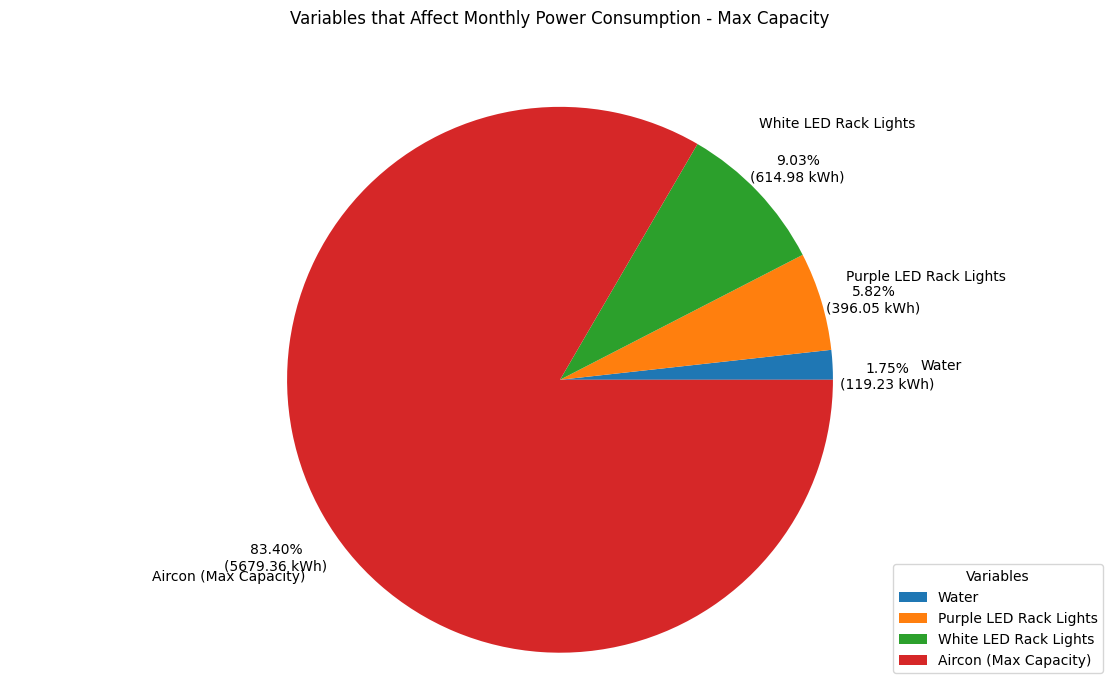
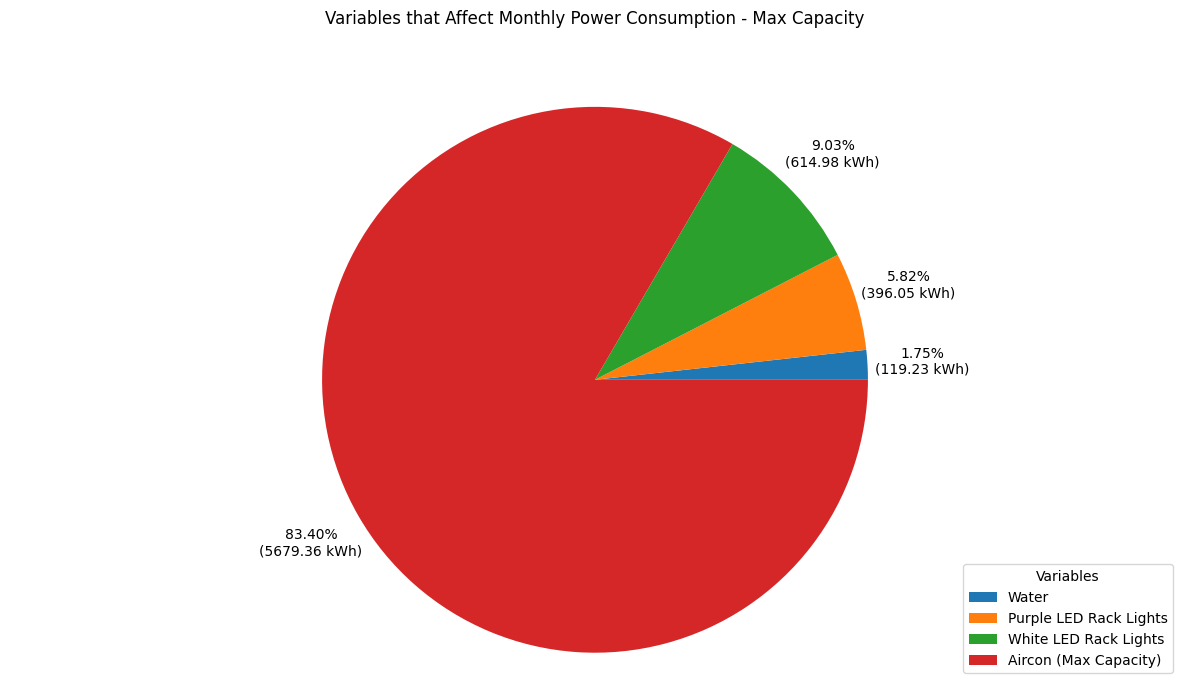
remove duplicate labels

diff --git a/analysis/variables_that_affect_power.py b/analysis/variables_that_affect_power.py
@@ -97,14 +97,12 @@ def generate_pie_chart(estimated_power_dict, filename):
     plt.title(filename, pad=40)
     
     plt.pie(data,
-            labels = labels,
+            labels=['']*len(labels),
             autopct = lambda x: f'{x:.2f}%\n({(x/100)*sum(data):.2f} kWh)',
-            pctdistance = 1.2,
-            labeldistance=1.4,
-            textprops={'horizontalalignment': 'center',
-                       'verticalalignment':'top'})
+            pctdistance = 1.2)
     
-    plt.legend(loc='lower right',
+    plt.legend(labels=labels,
+            loc='lower right',
                bbox_to_anchor=(1, 0),
                title='Variables')
     
